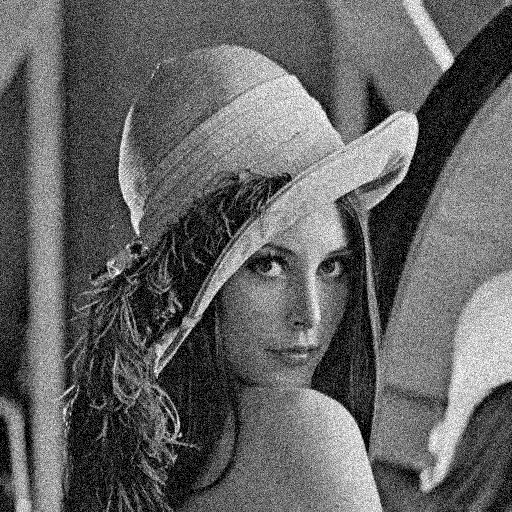
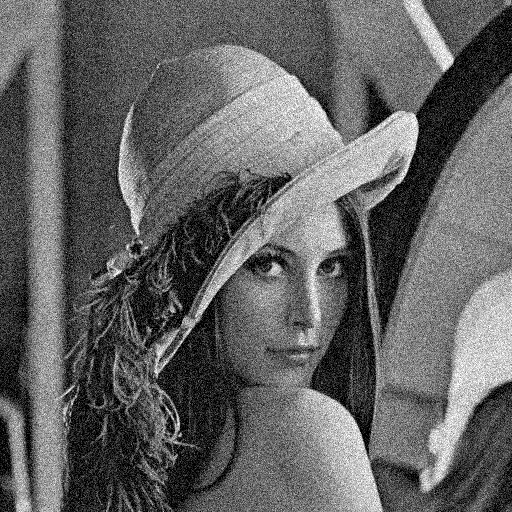
bug fix
- ormp pipeline
- still issues...

diff --git a/LSSC_CMake/Main/main.cpp b/LSSC_CMake/Main/main.cpp
@@ -223,8 +223,6 @@ void denoiseL0(
   const Matrix& i_dict,
   const Parameters& params)
 {
-    vector<unsigned int> median(i_imNoisy.size(), 0);
-
     //! size of patches
     const unsigned int sP = params.sPatch;
 
@@ -250,11 +248,12 @@ void denoiseL0(
     }
 
     //! write the dictionary into vector form
+    //! beware, the dictionary used in the ORMP library is the transposed version of this one
     vector<double> i_D(params.m * params.k);
 
-    for(unsigned int i = 0; i < params.m; i++)
+    for(unsigned int j = 0; j < params.k; j++)
     {
-        for(unsigned int j = 0; j < params.k; j++)
+        for(unsigned int i = 0; i < params.m; i++)
         {
             i_D[j * params.m + i] = (double) i_dict(i, j);
         }
@@ -268,6 +267,8 @@ void denoiseL0(
     computeORMP(i_X, i_D, o_indV, o_valV, params.epsORMP, params.nPatch, params.k, params.m);
 
     //! denoise each patch separately
+    vector<unsigned int> median(i_imNoisy.size(), 0);
+    
     for(unsigned int i = 0; i < params.nRowPatches; i++)
     {
         for(unsigned int j = 0; j < params.nColPatches; j++)
@@ -277,7 +278,9 @@ void denoiseL0(
             vector<unsigned int> code   = o_indV[numPatch];
 
             //! patch with top left corner im_noisy(i,j)
-            double* iP      = &i_X[numPatch * params.m];
+            double* iP        = &i_X[numPatch * params.m];
+            double* iDenoi    = &o_imDenoised[i*params.w + j];
+            unsigned int* iM  = &median[i*params.w + j];
 
             for (unsigned int p = 0; p < sP; p++)
             {
@@ -289,22 +292,41 @@ void denoiseL0(
                     {
                         denoisedPixel += coeff[r] * i_D[code[r] * params.m + indexPatch];
                     }
-                    iP[indexPatch] = denoisedPixel;
-                    o_imDenoised[(i + p) * params.w + (j + q)] += denoisedPixel;
-                    median[(i + p) * params.w + (j + q)] += 1;
+                    iDenoi[p * params.w + q] += denoisedPixel;
+                    iM[p * params.w + q] += 1;
                 }
             }
         }
     }
 
-    //! merge dneoised patch information
+    //! merge denoised patch information
+    //float m = 255, M = 0;
     for(unsigned int i = 0; i < params.nRowPatches; i++)
     {
         for(unsigned int j = 0; j < params.nColPatches; j++)
         {
-            o_imDenoised[i * params.w + j] /= min(float(median[i * params.w + j]), 1.f);
+            if(median[i * params.w + j] != 0){
+              o_imDenoised[i * params.w + j] = o_imDenoised[i * params.w + j]/median[i * params.w + j];
+            }
+            /*if(o_imDenoised[i * params.w + j] < m){
+              m = o_imDenoised[i * params.w + j];
+            }
+            if(o_imDenoised[i * params.w + j] > M){
+              M = o_imDenoised[i * params.w + j];
+            }*/
         }
     }
+
+    /*for(unsigned int i = 0; i < params.nRowPatches; i++)
+    {
+        for(unsigned int j = 0; j < params.nColPatches; j++)
+        {
+            if(median[i * params.w + j] != 0){
+              o_imDenoised[i * params.w + j] = 255*(o_imDenoised[i * params.w + j]-m)/(M-m);
+            }
+        }
+    }*/
+
 }
 
 int main(
@@ -370,7 +392,11 @@ int main(
 
     display("PART 1 - LEARNING PART WITH LARS", params);
     //! number of random patches for dictionary update
-    unsigned nRandomPatches = 50;//unsigned(floor(.2 * params.nPatch));
+    unsigned nRandomPatches = 50; //unsigned(floor(.2 * params.nPatch)); TODO: what could be this number ?
+    
+    if(params.verbose){
+      cout << "Number of random patches: " << nRandomPatches << endl;
+    }
 
     //! dictionary training with LARS/update
     //trainL1(dict, imNoisy, nRandomPatches, params);
@@ -378,7 +404,7 @@ int main(
     display("PART 2 - ORMP from KSVD", params);
 
     //! roughly denoised picture
-    vector<double> denoi1(imNoisy.size(), (double)0);
+    vector<double> denoi1(imNoisy.size(), (double) 0);
 
     //! pre-denoise picture with ORMP and previously learned dictionary
     denoiseL0(imNoisy, denoi1, dict, params);

diff --git a/LSSC_CMake/Main/params.h b/LSSC_CMake/Main/params.h
@@ -74,8 +74,8 @@ struct Parameters{
     sigma           = s;
 
     // from KSVD IPOL
-    sPatch          =  (sigma * 255.0l <= 20 ? 5 :
-                       (sigma * 255.0l <= 60 ? 7 : 9)); 
+    sPatch          =  (sigma  <= 20 ? 5 :
+                       (sigma  <= 60 ? 7 : 9)); 
     m               = sPatch * sPatch;
     k               = 512;
     nRowPatches     = h-sPatch+1;
@@ -89,7 +89,7 @@ struct Parameters{
 
     C               = (chnls == 1 ? (sPatch == 5 ? 1.2017729876383829 : (sPatch == 7 ? 1.1456550151825420 : 1.1139195378939404))					
                                                                       : (sPatch == 5 ? 1.1182997771678573 : (sPatch == 7 ? 1.0849724948297015 : 1.0662877194412401)));
-    epsORMP         = ((double) (chnls * m)) * C * C * sigma * sigma;
+    epsORMP         = ((double) (chnls * m)) * C * C * sigma / 255.l * sigma / 255.l;
 
     verbose         = true;
 
